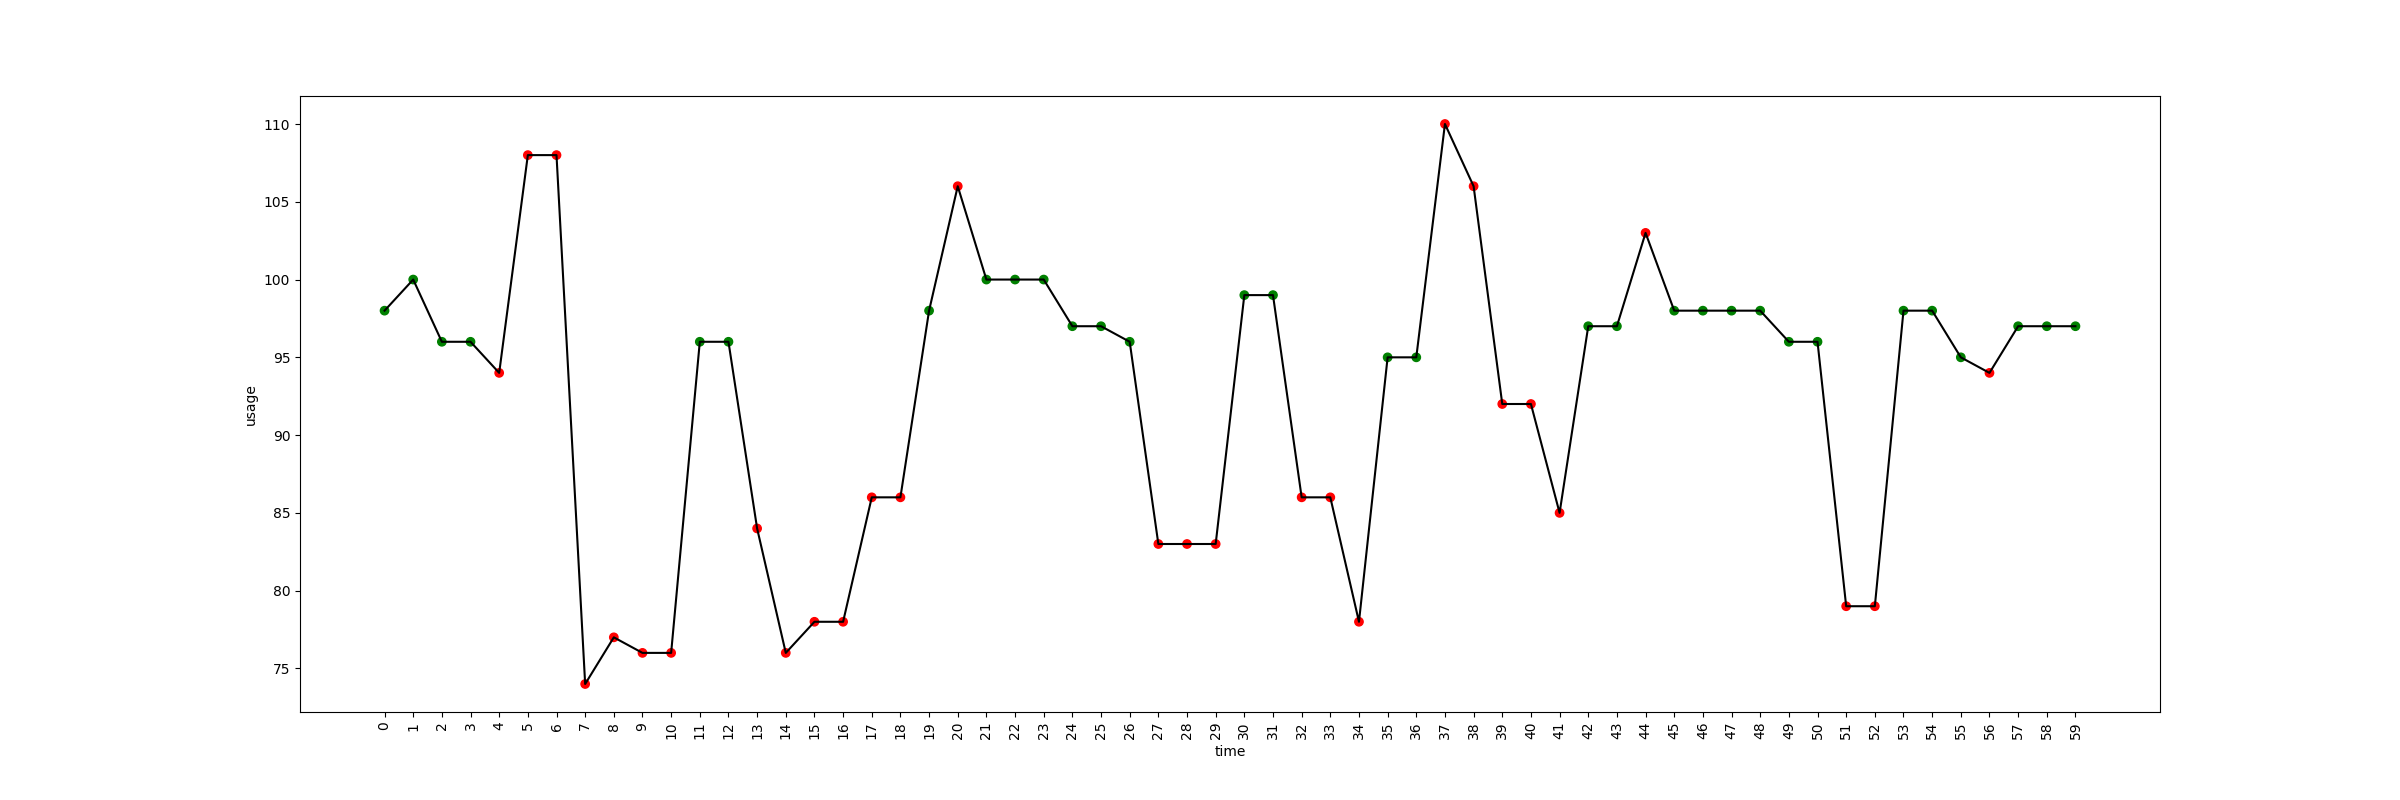
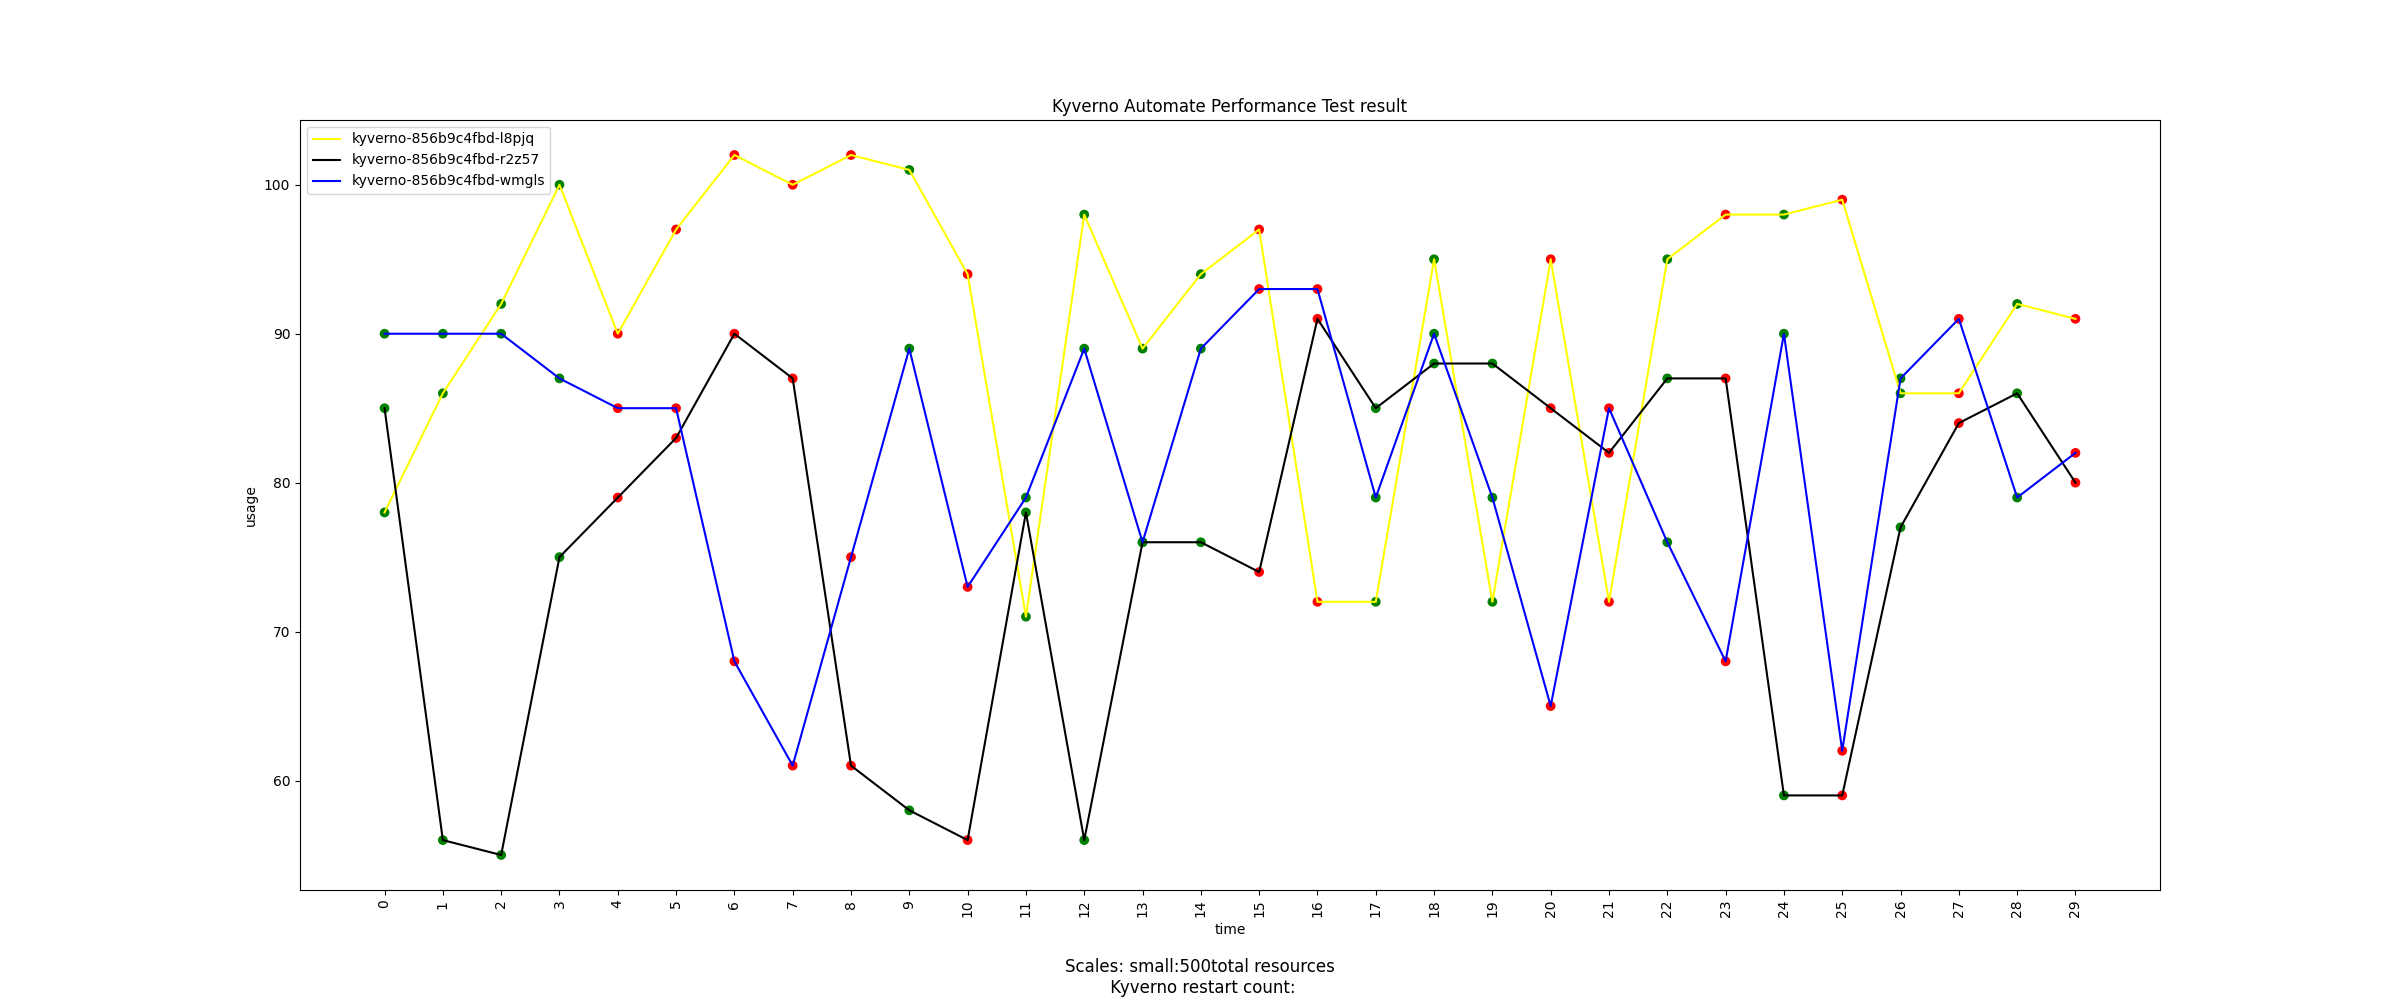
sync code

diff --git a/cmd/execute.go b/cmd/execute.go
@@ -27,13 +27,19 @@ import (
 	metrics "k8s.io/metrics/pkg/client/clientset/versioned"
 )
 
+var (
+	numberFlag int
+	size       int
+)
+
 // executeCmd represents the execute command
 var executeCmd = &cobra.Command{
 	Use:   "execute",
 	Short: "Run loads of resources creation",
-	Long:  `Run loadsd of resources creation`,
+	Long:  `Run loads of resources creation`,
 	Run: func(cmd *cobra.Command, args []string) {
 		//fmt.Println("execute called")
+		fmt.Println("--number:", numberFlag)
 		rules := clientcmd.NewDefaultClientConfigLoadingRules()
 		kubeconfig := clientcmd.NewNonInteractiveDeferredLoadingClientConfig(rules, &clientcmd.ConfigOverrides{})
 		config, err := kubeconfig.ClientConfig()
@@ -43,17 +49,24 @@ var executeCmd = &cobra.Command{
 		clientset := kubernetes.NewForConfigOrDie(config)
 
 		scales, _ := cmd.Flags().GetString("scale")
-		quantityMap := map[string]int{"xs": 100, "small": 500, "medium": 1000, "large": 2000, "xl": 3000}
+		number, _ := cmd.Flags().GetInt("number")
+		quantityMap := map[string]int{"xs": 100, "small": 500, "medium": 1000, "large": 2000, "xl": 3000, "xxl": 4000, "xxxl": 5000}
 
-		// kyvernop execute --scale xs
-		// kyvernop execute --number 600
+		// kyvernop execute --scale xs (done)
+		// kyvernop execute --number 600 (done)
+		fmt.Println("Value of scales", scales)
+		fmt.Println("Value of number", number)
 
-		size := quantityMap[scales] / 5
+		if number == 0 {
+			size = quantityMap[scales] / 5
+		} else {
+			size = number / 5
+		}
 
 		//Get usage
 		wg := new(sync.WaitGroup)
 		wg.Add(1)
-		go getMetrics(wg, *clientset, 8, 10, "kyverno")
+		go getMetrics(wg, *clientset, 20, 20, "kyverno", scales+":"+strconv.Itoa(quantityMap[scales])+"total resources")
 
 		//dependencies
 		label := map[string]string{"app": "web"}
@@ -62,7 +75,7 @@ var executeCmd = &cobra.Command{
 		for i := 0; i < size; i++ {
 			counter := strconv.Itoa(i)
 			objects.CreateNamespace(*clientset, counter)
-			objects.CreateCronjob(*clientset, counter, namespace, "* * * * *")
+			objects.CreateCronjob(*clientset, counter, namespace, "*/5 * * * *")
 			objects.CreateDeployment(*clientset, counter, namespace, "nginx:latest", label)
 			objects.CreateConfigmap(*clientset, counter, namespace)
 			objects.CreatePod(*clientset, counter, namespace, "nginx")
@@ -75,7 +88,7 @@ var executeCmd = &cobra.Command{
 			https://github.com/cenkalti/backoff
 
 		*/
-		time.Sleep(time.Duration(5) * time.Minute)
+		time.Sleep(time.Duration(3) * time.Minute)
 
 		//another wait for Kyverno background reconcilation
 		//time.Sleep(time.Duration(20) * time.Minute)
@@ -101,6 +114,7 @@ var executeCmd = &cobra.Command{
 
 func init() {
 	executeCmd.Flags().StringP("scale", "s", "xs", "choose the scale size (small/medium/large/xl) default: xs")
+	executeCmd.Flags().IntP("number", "n", 0, "number of quantity of resources that you want to create")
 	rootCmd.AddCommand(executeCmd)
 
 	// Here you will define your flags and configuration settings.
@@ -114,13 +128,13 @@ func init() {
 	// executeCmd.Flags().BoolP("toggle", "t", false, "Help message for toggle")
 }
 
-func getMetrics(wg *sync.WaitGroup, clientset kubernetes.Clientset, duration int, interval int, namespace string) {
+func getMetrics(wg *sync.WaitGroup, clientset kubernetes.Clientset, duration int, interval int, namespace string, scale string) {
 	defer wg.Done()
 	rules := clientcmd.NewDefaultClientConfigLoadingRules()
 	kubeconfig := clientcmd.NewNonInteractiveDeferredLoadingClientConfig(rules, &clientcmd.ConfigOverrides{})
 	config, err := kubeconfig.ClientConfig()
 	if err != nil {
-		panic(err)
+		fmt.Println(err)
 	}
 
 	mc, err := metrics.NewForConfig(config)
@@ -128,28 +142,60 @@ func getMetrics(wg *sync.WaitGroup, clientset kubernetes.Clientset, duration int
 		fmt.Println(err)
 	}
 
+	information := []string{scale}
 	var memoryUsage [][]int
+
+	kyvernoPod, err := clientset.CoreV1().Pods(namespace).List(context.TODO(), metav1.ListOptions{LabelSelector: "app.kubernetes.io/instance=kyverno"})
+	if err != nil {
+		fmt.Println(err)
+	}
+
+	// get kyverno pod name for report legend
+	for _, x := range kyvernoPod.Items {
+		information = append(information, x.GetName())
+	}
+
 	for len(memoryUsage) < (int(duration) * 60 / interval) {
 
-		kyvernoPod, err := clientset.CoreV1().Pods(namespace).List(context.TODO(), metav1.ListOptions{LabelSelector: "app.kubernetes.io/instance=kyverno"})
-		if err != nil {
-			fmt.Println(err)
-		}
-		name := kyvernoPod.Items[0].GetName()
-		podmetricGet, err := mc.MetricsV1beta1().PodMetricses(namespace).Get(context.Background(), name, metav1.GetOptions{})
+		//name := kyvernoPod.Items[0].GetName()
+		memoryUsage = append(memoryUsage, []int{len(memoryUsage)})
+		for _, x := range kyvernoPod.Items {
+			counter := len(memoryUsage) - 1
+			fmt.Println(x.GetName())
+			//append usage to memoryUsage array
+			podmetricGet, err := mc.MetricsV1beta1().PodMetricses(namespace).Get(context.Background(), x.GetName(), metav1.GetOptions{})
 
-		if err != nil {
-			fmt.Println(err)
+			if err != nil {
+				fmt.Println(err)
+			}
+
+			fmt.Println(memoryUsage)
+			if len(podmetricGet.Containers) == 0 {
+				memoryUsage[counter] = append(memoryUsage[counter], 0)
+				fmt.Println(memoryUsage)
+			} else {
+				memQuantity, ok := podmetricGet.Containers[0].Usage.Memory().AsInt64()
+				if !ok {
+					fmt.Println(!ok)
+				}
+				memoryUsage[counter] = append(memoryUsage[counter], int(memQuantity)/1000000)
+				fmt.Println(memoryUsage)
+			}
 		}
-		memQuantity, ok := podmetricGet.Containers[0].Usage.Memory().AsInt64()
-		if !ok {
-			fmt.Println(!ok)
-		}
-		memoryUsage = append(memoryUsage, []int{len(memoryUsage), int(memQuantity) / 1000000})
-		fmt.Println(memoryUsage)
 		time.Sleep(time.Duration(interval) * time.Second)
 	}
 
+	// information data
+	informationFile, err := os.Create("information.csv")
+	if err != nil {
+		log.Fatalf("failed creating file: %s", err)
+	}
+	informationwriter := csv.NewWriter(informationFile)
+	informationwriter.Write(information)
+	informationwriter.Flush()
+	informationFile.Close()
+
+	// usage data
 	csvfile, err := os.Create("usage.csv")
 	if err != nil {
 		log.Fatalf("failed creating file: %s", err)

diff --git a/anomalydetection.py b/anomalydetection.py
@@ -1,51 +1,74 @@
 # python outlier detection
 # pip3 install pyod
+from cProfile import label
+from calendar import c
 import csv
 import warnings
 import numpy as np
 import pandas as pd
+import random
 from pyod.models.mad import MAD
 from pyod.models.knn import KNN
 from pyod.models.lof import LOF
 import matplotlib.pyplot as plt
 from sklearn.ensemble import IsolationForest
 
+# read information data
+informations = []
+with open('information.csv') as csv_file:
+    csv_reader = csv.reader(csv_file, delimiter=',')
+    for x in csv_reader:
+        informations.append(x)
+
 #read from csv
 usage = []
 with open('usage.csv') as csv_file:
     csv_reader = csv.reader(csv_file, delimiter=',')
     for row in csv_reader:
-        row[1]=int(row[1])
+        for x in range(1, len(row)):
+            row[x]=int(row[x])
         usage.append(row)
 
+print(usage)
+size = ['time']+informations[0][1:]
+sizeList = informations[0][1:]
+data = pd.DataFrame(usage , columns=size)
+print("data",data)
 
-data = pd.DataFrame(usage , columns=['time', 'usage'])
-
-def fit_model(model, data, column='usage'):
-    # fit the model and predict it
-    df = data.copy()
-    data_to_predict = data[column].to_numpy().reshape(-1, 1)
-    predictions = model.fit_predict(data_to_predict)
-    df['Predictions'] = predictions
+def fit_model(model, data, column=sizeList):
+    for x in sizeList:
+        # fit the model and predict it
+        column = x
+        df = data.copy()
+        data_to_predict = data[column].to_numpy().reshape(-1, 1)
+        predictions = model.fit_predict(data_to_predict)
+        df['Predictions'] = predictions
     
     return df
 
-def plot_anomalies(df, x='time', y='usage'):
-
-    # categories will be having values from 0 to n
-    # for each values in 0 to n it is mapped in colormap
-    categories = df['Predictions'].to_numpy()
-    colormap = np.array(['g', 'r'])
-
-    f = plt.figure(figsize=(24, 8))
-    f = plt.scatter(df[x], df[y], c=colormap[categories])
-    f = plt.xlabel(x)
-    f = plt.ylabel(y)
-    f = plt.xticks(rotation=90)
-    plt.plot(df[x], df[y], c = 'black', linestyle='solid')
-    #plt.show()
+def plot_anomalies(df, x='time', y=sizeList):
+    f = plt.figure(figsize=(24, 10))
+    colors = ["black", "blue", "yellow", "purple", "magenta", "gray", "pink", "cyan"]
+    for value in sizeList:
+        pickedColor = []
+        y = value
+        # categories will be having values from 0 to n
+        # for each values in 0 to n it is mapped in colormap
+        categories = df['Predictions'].to_numpy()
+        colormap = np.array(['g', 'r'])
+        f = plt.title("Kyverno Automate Performance Test result")
+        f = plt.scatter(df[x], df[y], c=colormap[categories])
+        f = plt.xlabel(x)
+        f = plt.ylabel("usage")
+        f = plt.xticks(rotation=90)
+        plt.plot(df[x], df[y], c = random.choice(colors), linestyle='solid', label=value)
+        pickedColor.append(c)
+        #plt.show()
+    txt="Scales: "+informations[0][0]+"\n Kyverno restart count:"
+    plt.figtext(0.5, 0.01, txt, wrap=True, horizontalalignment='center', fontsize=12)
+    plt.legend(loc='upper left')
     plt.savefig("report.png")
-
+    print("pickedcolor", pickedColor)
 
 def find_anomalies(value, lower_threshold, upper_threshold):
     

diff --git a/objects/objects.go b/objects/objects.go
@@ -99,7 +99,7 @@ func CreatePod(clientset kubernetes.Clientset, name string, namespace string, im
 		},
 		Spec: corev1.PodSpec{
 			Containers: []corev1.Container{
-				{Name: "busybox", Image: "busybox:latest", Command: []string{"sleep", "100000"}},
+				{Name: "busybox", Image: "busybox:latest", ImagePullPolicy: "IfNotPresent", Command: []string{"sleep", "100000"}},
 			},
 		},
 	}
@@ -135,7 +135,7 @@ func CreateCronjob(clientset kubernetes.Clientset, name string, namespace string
 					Template: corev1.PodTemplateSpec{
 						Spec: corev1.PodSpec{
 							Containers: []corev1.Container{
-								{Name: "busybox", Image: "busybox", Command: []string{"sleep", "60"}},
+								{Name: "busybox", Image: "busybox", ImagePullPolicy: "IfNotPresent", Command: []string{"sleep", "60"}},
 							},
 							RestartPolicy: "OnFailure",
 						},
@@ -181,8 +181,9 @@ func CreateDeployment(clientset kubernetes.Clientset, name string, namespace str
 				Spec: corev1.PodSpec{
 					Containers: []corev1.Container{
 						{
-							Name:  "web",
-							Image: image,
+							Name:            "web",
+							Image:           image,
+							ImagePullPolicy: "IfNotPresent",
 							Ports: []corev1.ContainerPort{
 								{
 									Name:          "http",

diff --git a/README.md b/README.md
@@ -94,3 +94,10 @@ Kyverno limit config:
 
 less than 4000 total resource: use default limit
 more than 4000 total resource: use 768Mi (2x the default)
+
+#if the workloads more than 2000
+- Memory limit
+- kyverno instance 
+
+#production cluster
+- kyverno HA mode (3 or 5 replicas for minimum)
